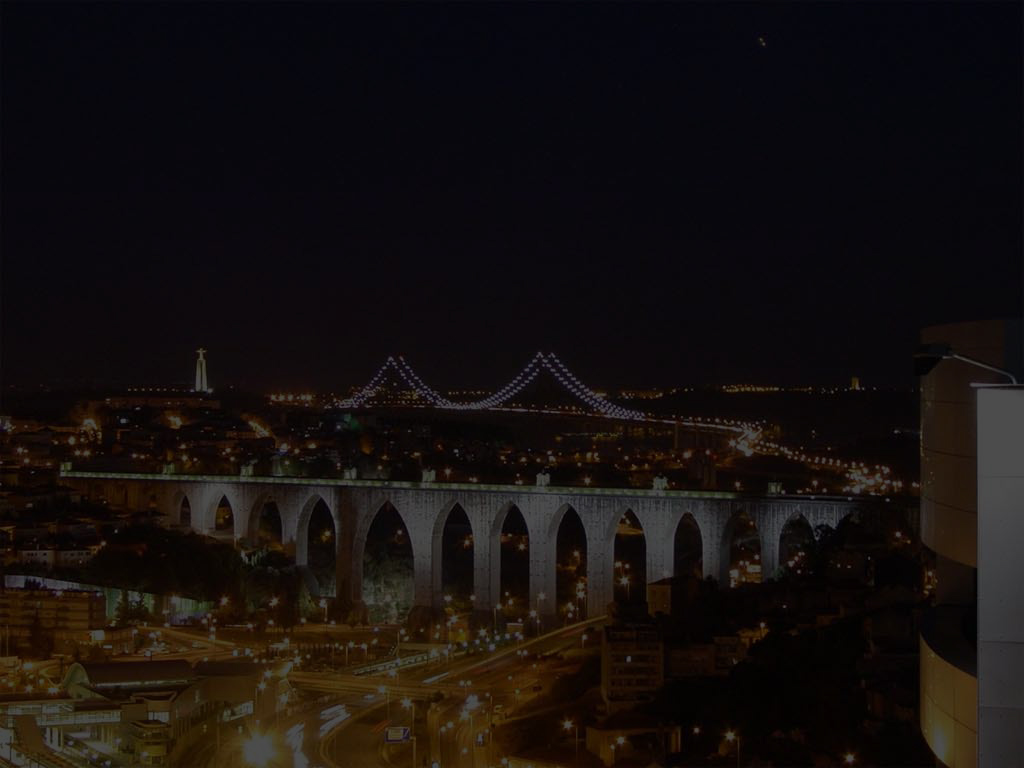
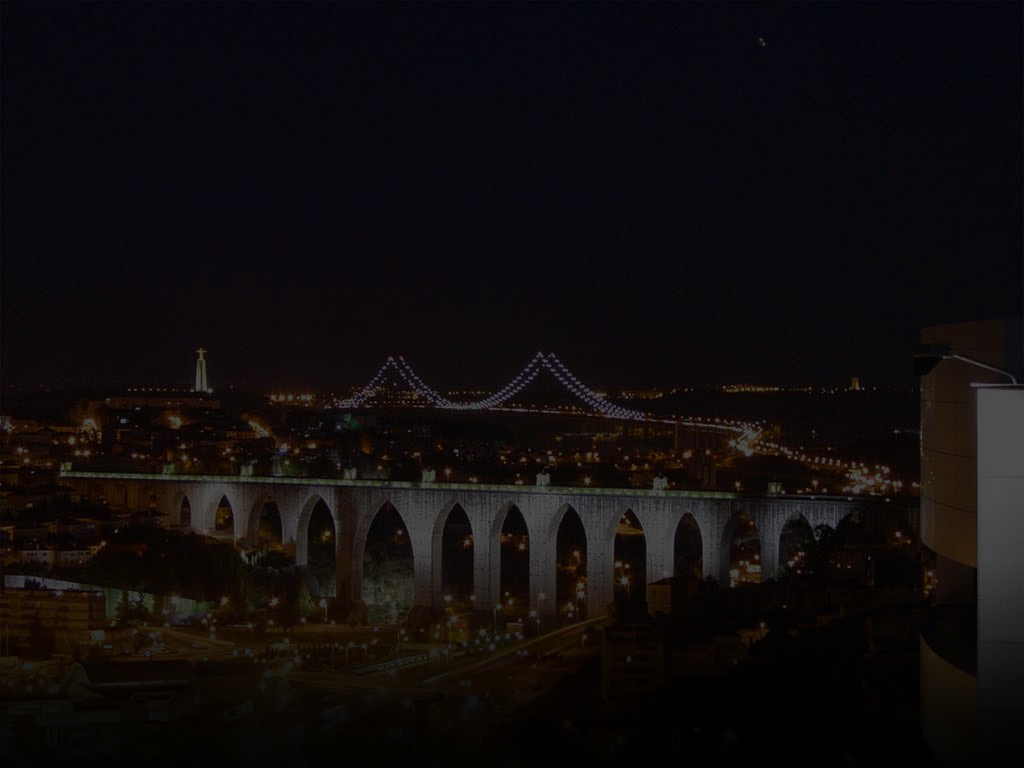
melhoramentos ao responsive

diff --git a/css/styles.css b/css/styles.css
@@ -3,34 +3,13 @@ body {
 	font-family: 'Quicksand', sans-serif;
 	background: url('../img/lisboa.jpg') center center no-repeat;
 	background-size: cover;
+	background-color: #000;
 }
 
 .main-container{
 	position: relative;
 	z-index: 999;
 }
-
-#full-screen-background-image {
-      z-index: -999;
-      min-height: 100%;
-      min-width: 1024px;
-      width: 100%;
-      height: auto;
-      position: fixed;
-      top: 0;
-      left: 0;
-}
-
-.whitenoise{
-      background: url(../img/white.gif);
-      opacity: 0.2;
-      z-index: 1;
-      position: absolute;
-      width: 100%;
-      height: 100%;
-      top: 0;
-}
-
 
 img.logo {
 	width: 28%;
@@ -40,11 +19,10 @@ h2.location {
 	border-top: 1px solid #fff;
 	border-bottom: 1px solid #fff;
 	padding: 12px 0px;
-	margin-right: 32%;
-	margin-left: 32%;
+	margin-right: 31%;
+	margin-left: 31%;
 	text-transform: uppercase;
 	font-weight: 100;
-
 }
 
 h1.date {
@@ -116,6 +94,7 @@ a.merge {
 	h2.location {
 		margin-right: 25%;
 		margin-left: 25%;
+		font-size: 20px;
 	}
 
 	body {
@@ -176,17 +155,31 @@ a.merge {
 
 }
 
+@media only screen and (width: 320px) {
+	h2.location {
+	margin-right: 20% !important;
+	margin-left: 20% !important;
+	}
+}
+
 /* Mobile Portrait Size to Mobile Landscape Size (devices and browsers) */
 @media only screen and (max-width: 480px) {
 	
 	img.logo {
 		width: 35%;
 	}
+
+	p.tagline {
+	font-size: 12px;
+	width: 90%;
+	font-weight: 400;
+	padding-left: 5%;
+	}
 	
 	h2.location {
-		margin-right: 29%;
-		margin-left: 29%;
-		font-size: 12px;
+		margin-right: 30%;
+		margin-left: 30%;
+		font-size: 11px;
 	}
 
 	h1.date {

diff --git a/index.html b/index.html
@@ -41,9 +41,6 @@ Created by RUPEAL.">
         <!--[if lt IE 7]>
             <p class="browsehappy">You are using an <strong>outdated</strong> browser. Please <a href="http://browsehappy.com/">upgrade your browser</a> to improve your experience.</p>
         <![endif]-->
-        <div class="whitenoise"></div>
-        <img alt="full screen background image" src="img/lisboa.jpg" id="full-screen-background-image" /> 
-
         <div class="main-container">
             <div class="main wrapper clearfix">
                 <img class="logo" src="img/merge.svg">
